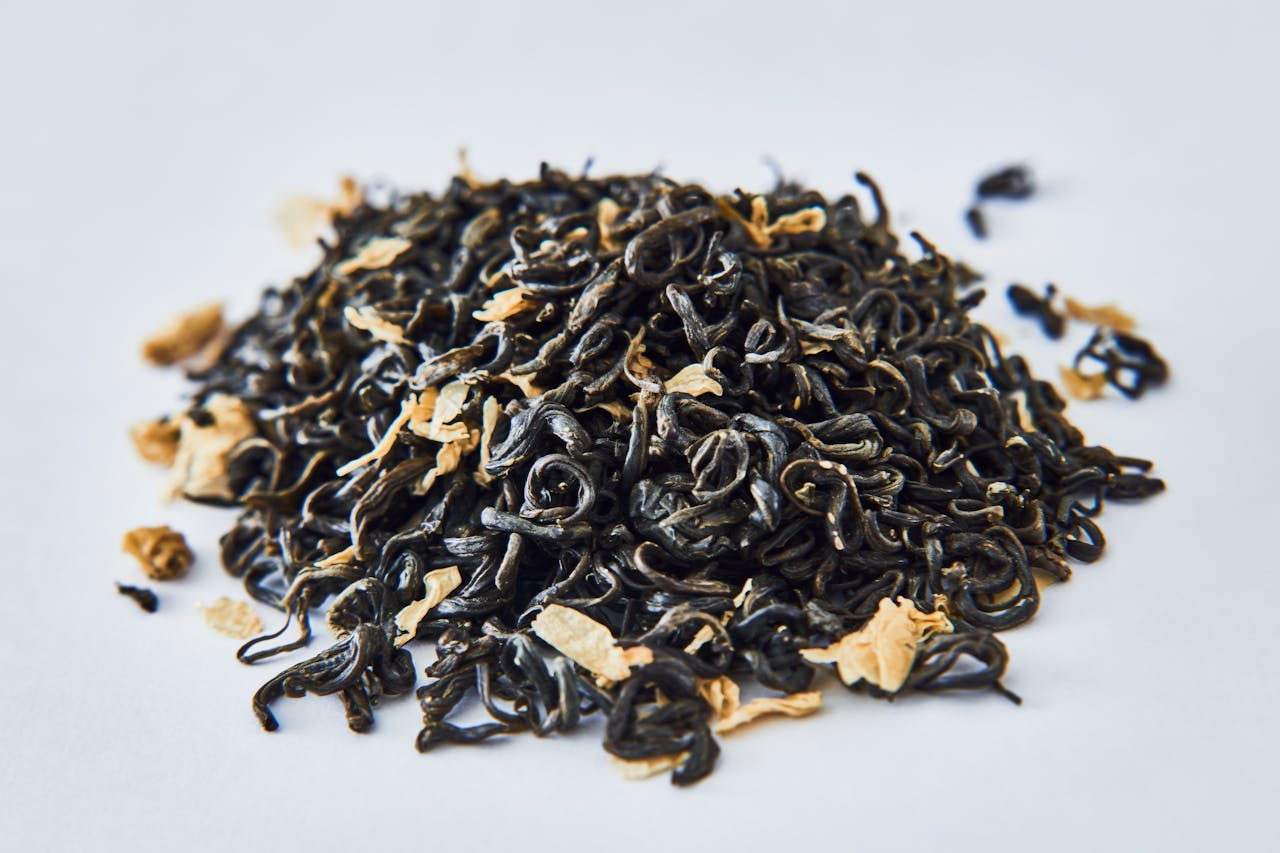
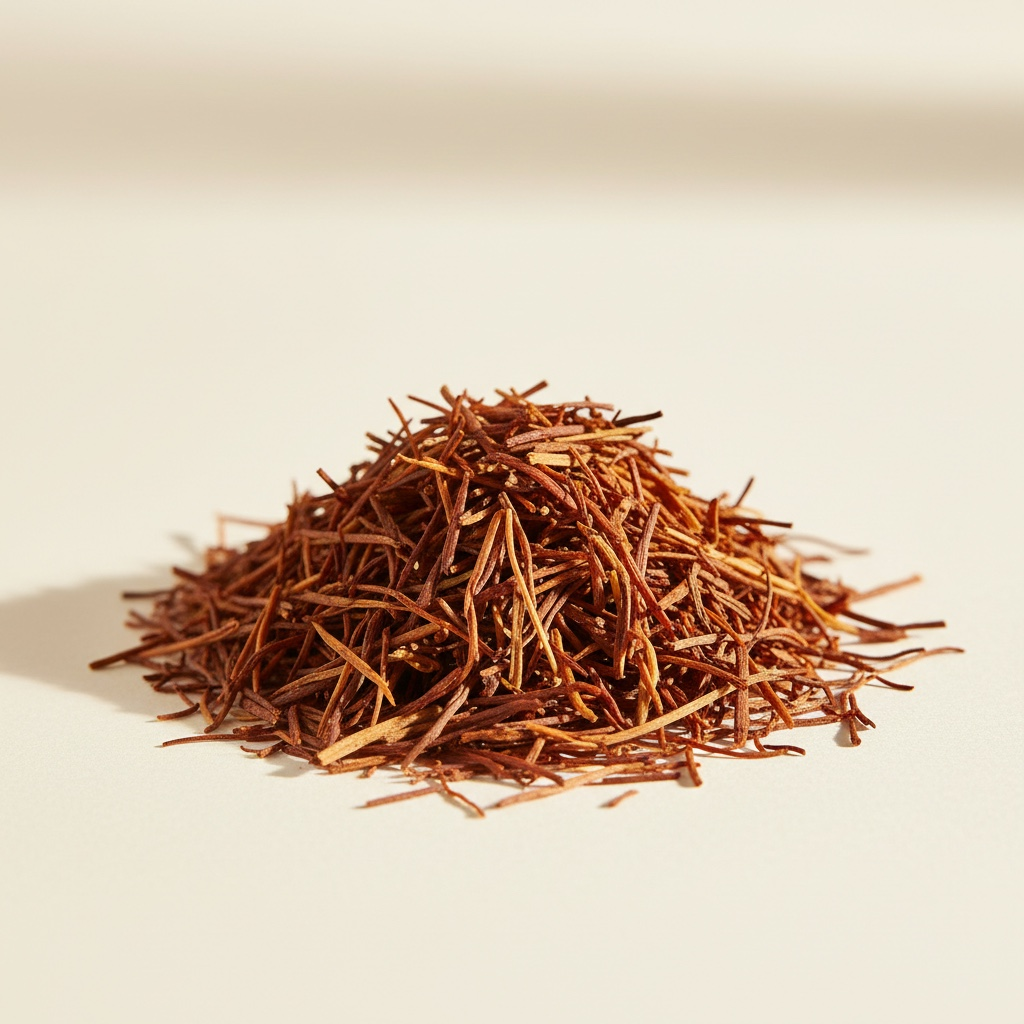
Replace fake tea images with authentic rooibos, remove bad cutouts
- Replace rooibos-tea.jpg (was Chinese black tea) with real red-brown rooibos needles
- Replace hands-holding-harvest.jpg (was Asian green tea) with SA Cederberg rooibos harvest
- Remove poor-quality rooibos and sugarcane parallax cutout layers from hero
- Keep only products composite parallax with boosted scroll speed

diff --git a/script.js b/script.js
@@ -247,36 +247,14 @@
         tl.fromTo(heroScroll, { opacity: 0 }, { opacity: 1, duration: 0.5 }, '-=0.1');
       }
 
-      // Staggered entrance for parallax product layers
-      var parallaxLayers = document.querySelectorAll('.parallax-layer');
-      if (parallaxLayers.length) {
-        // Products layer (main, center) - scale up from behind
-        var productsLayer = document.querySelector('.parallax-products');
-        if (productsLayer) {
-          tl.fromTo(productsLayer,
-            { opacity: 0, scale: 0.8, x: 80 },
-            { opacity: 1, scale: 1, x: 0, duration: 1.2, ease: 'power3.out' },
-            '-=0.3'
-          );
-        }
-        // Rooibos layer (back, decorative) - fade in softly
-        var rooibosLayer = document.querySelector('.parallax-rooibos');
-        if (rooibosLayer) {
-          tl.fromTo(rooibosLayer,
-            { opacity: 0 },
-            { opacity: 0.12, duration: 1.0, ease: 'power2.out' },
-            '-=0.8'
-          );
-        }
-        // Sugarcane layer (front, decorative) - slide up from bottom
-        var sugarcaneLayer = document.querySelector('.parallax-sugarcane');
-        if (sugarcaneLayer) {
-          tl.fromTo(sugarcaneLayer,
-            { opacity: 0, y: 40 },
-            { opacity: 0.2, y: 0, duration: 1.0, ease: 'power3.out' },
-            '-=0.7'
-          );
-        }
+      // Products cutout entrance - scale in from right
+      var productsLayer = document.querySelector('.parallax-products');
+      if (productsLayer) {
+        tl.fromTo(productsLayer,
+          { opacity: 0, scale: 0.8, x: 80 },
+          { opacity: 1, scale: 1, x: 0, duration: 1.2, ease: 'power3.out' },
+          '-=0.3'
+        );
       }
     }
 

diff --git a/style.css b/style.css
@@ -773,31 +773,13 @@ button, input, textarea, select {
   object-fit: contain;
 }
 
-/* Layer 1: Rooibos botanical - decorative, top-right, subtle */
-.parallax-rooibos {
-  top: -5%;
-  right: 2%;
-  width: clamp(180px, 18vw, 280px);
-  filter: brightness(1.2);
-  --target-opacity: 0.12;
-}
-
-/* Layer 2: Products composite - hero element, right-center */
+/* Products composite - hero element, right-center */
 .parallax-products {
   top: 50%;
   right: 4%;
   transform: translateY(-50%);
   width: clamp(360px, 40vw, 640px);
   filter: drop-shadow(0 30px 60px rgba(0,0,0,0.35)) drop-shadow(0 8px 20px rgba(0,0,0,0.2));
-}
-
-/* Layer 3: Sugarcane - bottom-right foreground, partial crop */
-.parallax-sugarcane {
-  bottom: -12%;
-  right: -3%;
-  width: clamp(140px, 14vw, 220px);
-  filter: brightness(1.1);
-  --target-opacity: 0.2;
 }
 
 /* ---- PAGE HERO (Inner pages - Split Screen) ---- */
@@ -1671,14 +1653,6 @@ button, input, textarea, select {
     right: 3%;
   }
 
-  .parallax-rooibos {
-    width: clamp(120px, 14vw, 200px);
-  }
-
-  .parallax-sugarcane {
-    width: clamp(100px, 10vw, 160px);
-  }
-
   .gallery-grid {
     grid-template-columns: 1fr 1fr;
   }
@@ -1737,11 +1711,6 @@ button, input, textarea, select {
 
   .hero-actions .btn {
     width: 100%;
-  }
-
-  .parallax-rooibos,
-  .parallax-sugarcane {
-    display: none;
   }
 
   .parallax-products {

diff --git a/index.html b/index.html
@@ -99,19 +99,10 @@
     </div>
   </div>
 
-  <!-- Multi-layer parallax product elements -->
+  <!-- Parallax product cutout -->
   <div class="hero-parallax-layers">
-    <!-- Layer 1: Rooibos botanical (back, slow) -->
-    <div class="parallax-layer parallax-rooibos" data-speed="0.08">
-      <img src="assets/images/cutouts/breakout-rooibos-cutout.png" alt="">
-    </div>
-    <!-- Layer 2: Products composite (mid, medium) -->
-    <div class="parallax-layer parallax-products" data-speed="0.18">
+    <div class="parallax-layer parallax-products" data-speed="0.25">
       <img src="assets/images/cutouts/hero-products-cutout.png" alt="South African export products">
-    </div>
-    <!-- Layer 3: Sugarcane (front, fast) -->
-    <div class="parallax-layer parallax-sugarcane" data-speed="0.28">
-      <img src="assets/images/cutouts/breakout-sugarcane-cutout.png" alt="">
     </div>
   </div>
 
